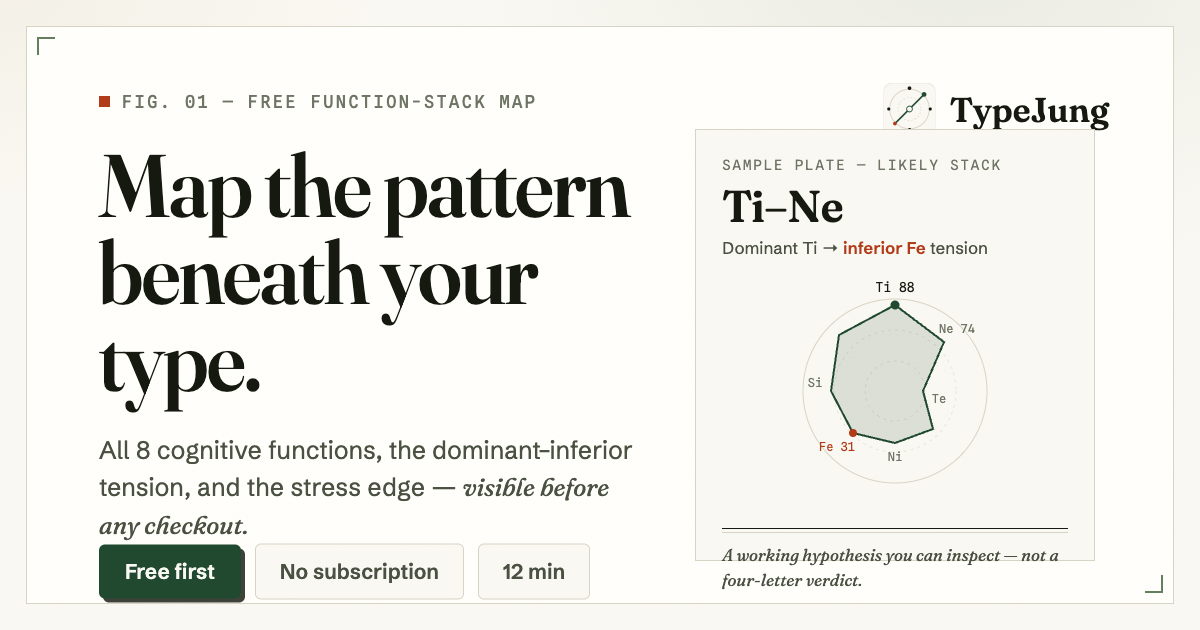
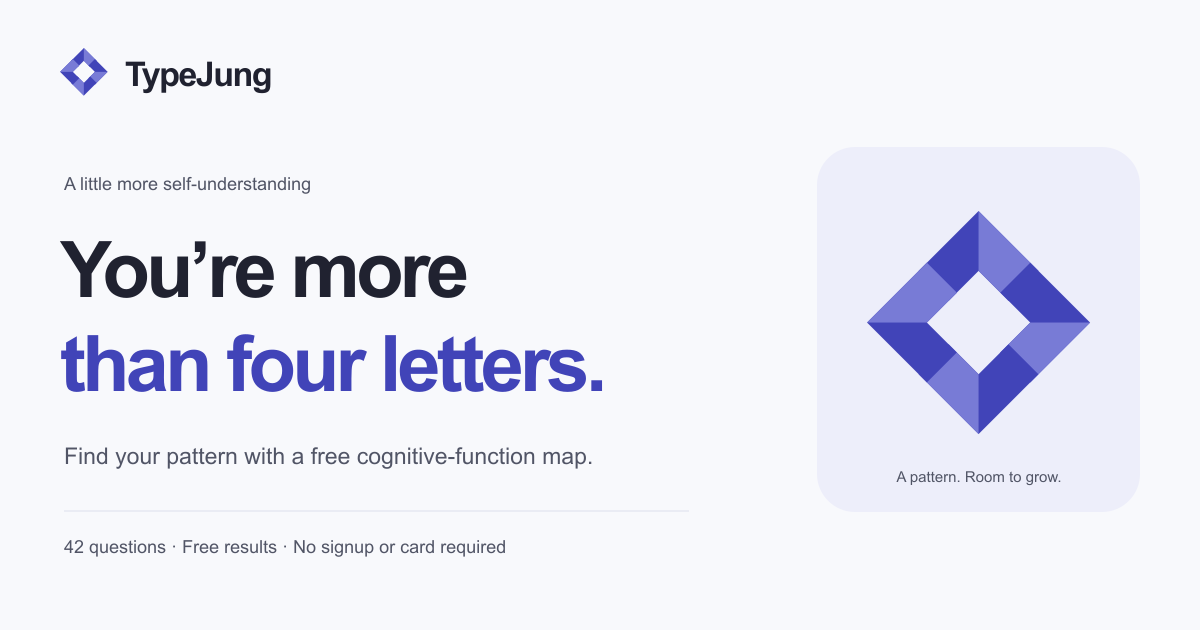
Give TypeJung a folded compass identity and matching brand assets

diff --git a/components/brand/TypeJungMark.tsx b/components/brand/TypeJungMark.tsx
@@ -15,72 +15,21 @@ const sizeClasses: Record<TypeJungMarkSize, string> = {
   lg: 'w-32 h-32',
 };
 
-const functionNodes = [
-  { x: 50, y: 10, r: 3.3 },
-  { x: 78, y: 22, r: 2.4 },
-  { x: 90, y: 50, r: 2.8 },
-  { x: 78, y: 78, r: 2.2 },
-  { x: 50, y: 90, r: 3.3 },
-  { x: 22, y: 78, r: 2.4 },
-  { x: 10, y: 50, r: 2.8 },
-  { x: 22, y: 22, r: 2.2 },
-];
-
+// One canonical vector keeps the app, shared results, and exported assets in sync.
+// Four folded pairs frame an open center; the facets do not encode result scores.
 export const TypeJungMark: React.FC<TypeJungMarkProps> = ({
   className = '',
   size = 'md',
   showLabel = false,
-}) => {
-  return (
-    <div className={`inline-flex items-center gap-3 ${className}`.trim()}>
-      <svg
-        viewBox="0 0 100 100"
-        className={`${sizeClasses[size]} shrink-0`}
-        role="img"
-        aria-label="TypeJung function-stack map mark"
-        fill="none"
-        xmlns="http://www.w3.org/2000/svg"
-      >
-        <circle cx="50" cy="50" r="38" className="stroke-jung-border" strokeWidth="1.2" />
-        <circle cx="50" cy="50" r="22" className="stroke-jung-border/70" strokeWidth="0.9" strokeDasharray="3 4" />
-        <path d="M22 78L78 22" className="stroke-jung-accent" strokeWidth="2.5" strokeLinecap="round" />
-        <path d="M50 10V90M10 50H90" className="stroke-jung-border/60" strokeWidth="0.8" strokeLinecap="round" />
-        <circle cx="50" cy="50" r="5" className="fill-jung-surface stroke-jung-accent" strokeWidth="1.4" />
-        {functionNodes.map((node, index) => (
-          <circle
-            key={`${node.x}-${node.y}`}
-            cx={node.x}
-            cy={node.y}
-            r={index === 1 ? 4 : index === 5 ? 3.2 : node.r}
-            className={
-              index === 1
-                ? 'fill-jung-accent'
-                : index === 5
-                  ? 'fill-jung-tension'
-                  : 'fill-jung-dark'
-            }
-          />
-        ))}
-        <path
-          d="M70 18L82 18L82 30"
-          className="stroke-jung-accent"
-          strokeWidth="1.8"
-          strokeLinecap="round"
-          strokeLinejoin="round"
-        />
-        <path
-          d="M30 82L18 82L18 70"
-          className="stroke-jung-tension"
-          strokeWidth="1.8"
-          strokeLinecap="round"
-          strokeLinejoin="round"
-        />
-      </svg>
-      {showLabel && (
-        <span className="font-display text-lg leading-none text-jung-dark tracking-normal">
-          TypeJung
-        </span>
-      )}
-    </div>
-  );
-};
+}) => (
+  <div className={`inline-flex items-center gap-3 ${className}`.trim()}>
+    <img
+      src="/logo.svg?v=folded-compass-1"
+      className={`${sizeClasses[size]} shrink-0`}
+      width={96}
+      height={96}
+      alt="TypeJung folded compass"
+    />
+    {showLabel && <span className="studio-wordmark font-display text-lg leading-none text-jung-dark">TypeJung</span>}
+  </div>
+);

diff --git a/index.html b/index.html
@@ -35,15 +35,15 @@
     <meta name="twitter:creator" content="@typejung">
 
     <!-- Additional SEO -->
-    <meta name="theme-color" content="#20492f">
+    <meta name="theme-color" content="#4144b8">
     <meta name="mobile-web-app-capable" content="yes">
     <meta name="apple-mobile-web-app-status-bar-style" content="black-translucent">
 
     <!-- Favicon -->
-    <link rel="icon" type="image/svg+xml" href="/logo.svg">
-    <link rel="icon" type="image/png" sizes="32x32" href="/favicon-32x32.png">
-    <link rel="icon" type="image/png" sizes="16x16" href="/favicon-16x16.png">
-    <link rel="apple-touch-icon" sizes="180x180" href="/apple-touch-icon.png">
+    <link rel="icon" type="image/svg+xml" href="/favicon.svg?v=folded-compass-1">
+    <link rel="icon" type="image/png" sizes="32x32" href="/favicon-32x32.png?v=folded-compass-1">
+    <link rel="icon" type="image/png" sizes="16x16" href="/favicon-16x16.png?v=folded-compass-1">
+    <link rel="apple-touch-icon" sizes="180x180" href="/apple-touch-icon.png?v=folded-compass-1">
     <link rel="manifest" href="/site.webmanifest">
     <link rel="alternate" type="text/plain" href="/llms.txt" title="TypeJung AI content index">
     <link rel="alternate" type="text/plain" href="/content.txt" title="TypeJung plain-text content index">

diff --git a/components/layout/Layout.tsx b/components/layout/Layout.tsx
@@ -299,7 +299,7 @@ export const Layout: React.FC<{ children: React.ReactNode }> = ({
               className="flex min-h-11 items-center gap-2"
             >
               <TypeJungMark size="sm" />
-              <span className="font-display text-xl">TypeJung</span>
+              <span className="studio-wordmark font-display text-xl">TypeJung</span>
             </Link>
             <Link
               to={location.pathname === '/assessment' ? '/' : '/results'}
@@ -562,7 +562,7 @@ export const Layout: React.FC<{ children: React.ReactNode }> = ({
           <div>
             <Link to="/" className="inline-flex min-h-11 items-center gap-2">
               <TypeJungMark size="sm" />
-              <span className="font-display text-2xl">TypeJung</span>
+              <span className="studio-wordmark font-display text-2xl">TypeJung</span>
             </Link>
             <p className="mt-3 max-w-xs text-sm leading-6 text-jung-muted">
               Explore the pattern behind your personality. A tool for

diff --git a/components/ShareCard.tsx b/components/ShareCard.tsx
@@ -40,8 +40,8 @@ export const ShareCard: React.FC<ShareCardProps> = ({ dominantFunction, scores, 
             <div className="flex items-center gap-3 mb-8">
               <img src="/logo.svg" alt="" className="w-10 h-10" />
               <span
-                className="text-sm font-semibold tracking-[0.2em] uppercase"
-                style={{ color: '#5C4033', fontFamily: '"DM Sans", sans-serif' }}
+                className="text-2xl font-bold tracking-tight"
+                style={{ color: '#202230', fontFamily: '"Schibsted Grotesk", sans-serif' }}
               >
                 TypeJung
               </span>

diff --git a/pages/SharePage.tsx b/pages/SharePage.tsx
@@ -129,7 +129,7 @@ const SharedDepthHero: React.FC<{
     <div className="grid gap-0 lg:grid-cols-[minmax(0,1fr)_26rem]">
       <div className="p-6 sm:p-9">
         <div className="flex flex-wrap items-center gap-3">
-          <img src="/logo.svg" alt="TypeJung" className="h-10 w-10 rounded-lg bg-white/10 p-1" />
+          <img src="/logo.svg" alt="TypeJung" className="h-10 w-10 rounded-lg bg-white p-1" />
           <span className="text-xs font-semibold uppercase tracking-[0.12em] text-white/55">
             Someone shared their function-stack map
           </span>

diff --git a/docs/guided-pattern-studio.md b/docs/guided-pattern-studio.md
@@ -67,3 +67,9 @@ Question data, option rotation, scoring, saved-answer/completion behavior, auth 
 The ignored `.codex/preview.mjs` harness uses an empty environment directory and local API fixtures. Production credentials are not loaded. AI free interpretation is clearly labeled as local preview content. Purchases, account services, and emails are disconnected. The actual production checkout/generation code was preserved, but no real charge, outgoing email, account login, or newly generated paid report was exercised during this redesign.
 
 The implementation is ready for review and a subsequent production deployment request. Conversion performance should be assessed from real funnel data after release; this redesign does not establish a sales result.
+
+## Logo refinement
+
+The previous fine-line orbit mark was replaced after review with a folded compass: four paired shapes, eight indigo facets, and an open center. Three original vector studies were compared at 16, 24, 32, and 40 pixels; the folded compass retained the clearest silhouette. The symbol is decorative brand identity, not a chart of assessment scores.
+
+`public/logo.svg` is the canonical transparent vector, reused by the React mark and existing share/learning pages. Matching favicon, Apple touch icon, maskable app icon, and social image assets use the same geometry. The wordmark treatment is consistent across the main header, focused journey header, and footer. The social image now matches the Pattern Studio homepage rather than the previous serif identity.
